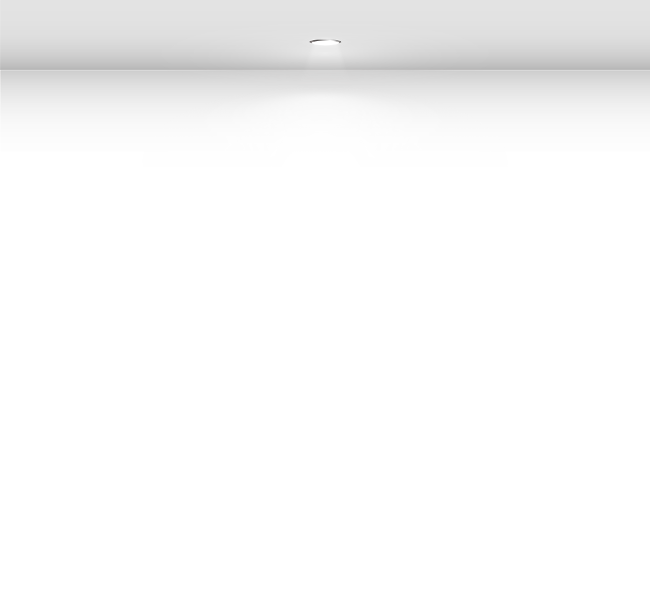
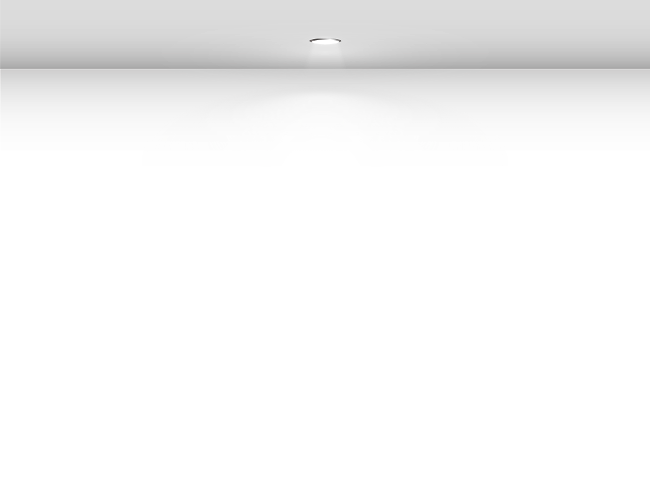
Largo imagen luz

Changed region(s): [[0.0, 0.12, 1.0, 0.18], [0.4615, 0.06, 0.5231, 0.09]]

diff --git a/web-app/css/styles.css b/web-app/css/styles.css
@@ -237,11 +237,9 @@ label {
     font-size: 8pt !important; 
 }
 .light {
-    height: 600px;
     margin-left: -325px;
     position: absolute;
     top: 140px;
-    width: 650px;
 }
 .bank {
     background-repeat: no-repeat;
